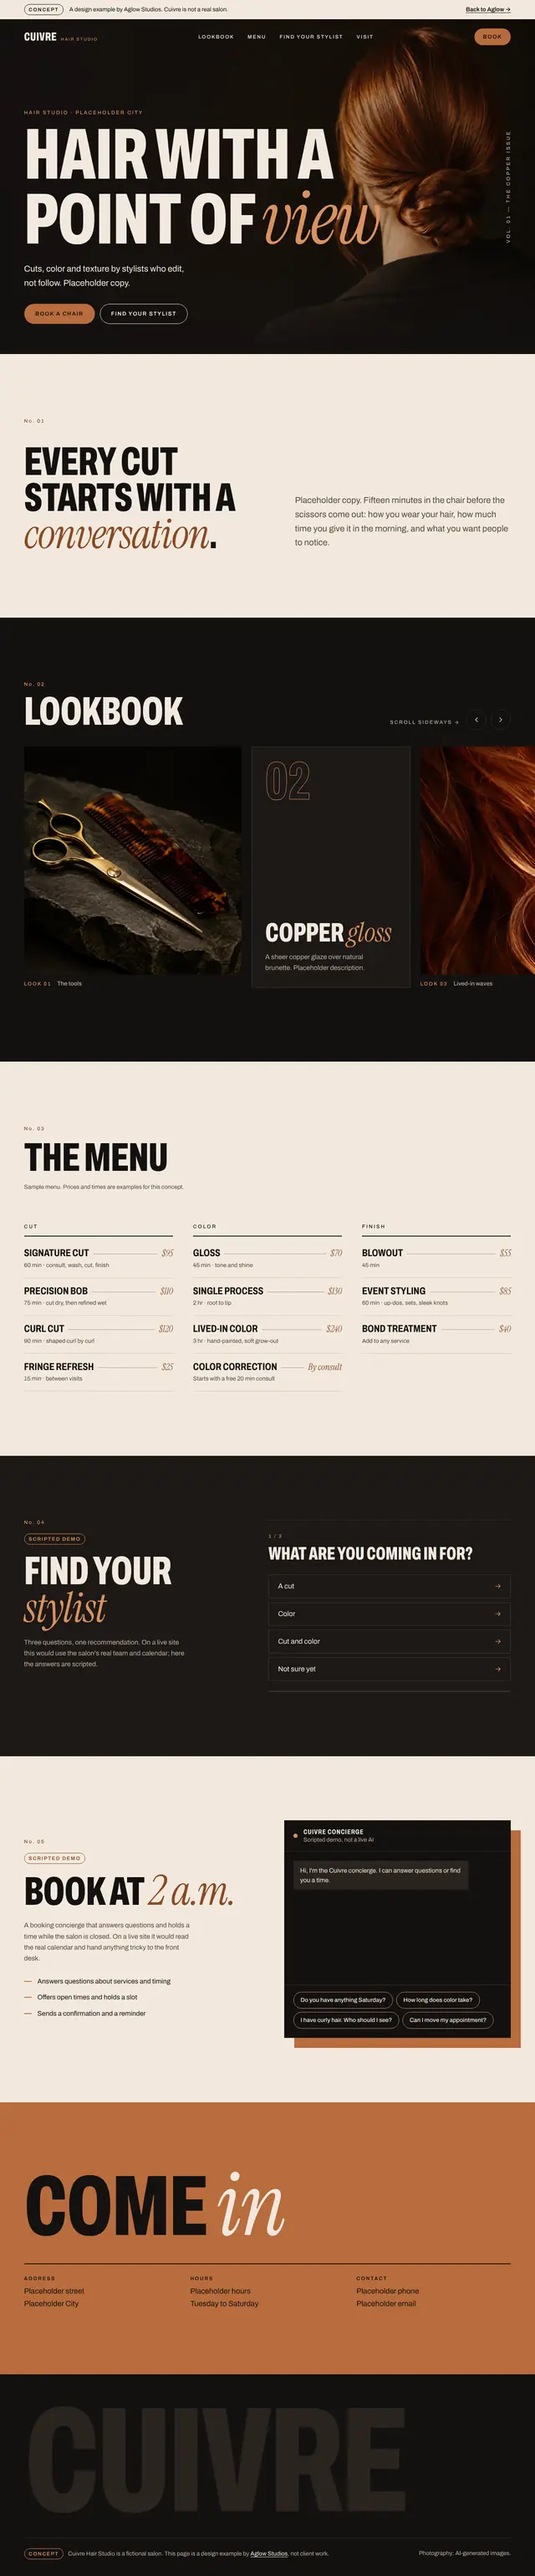
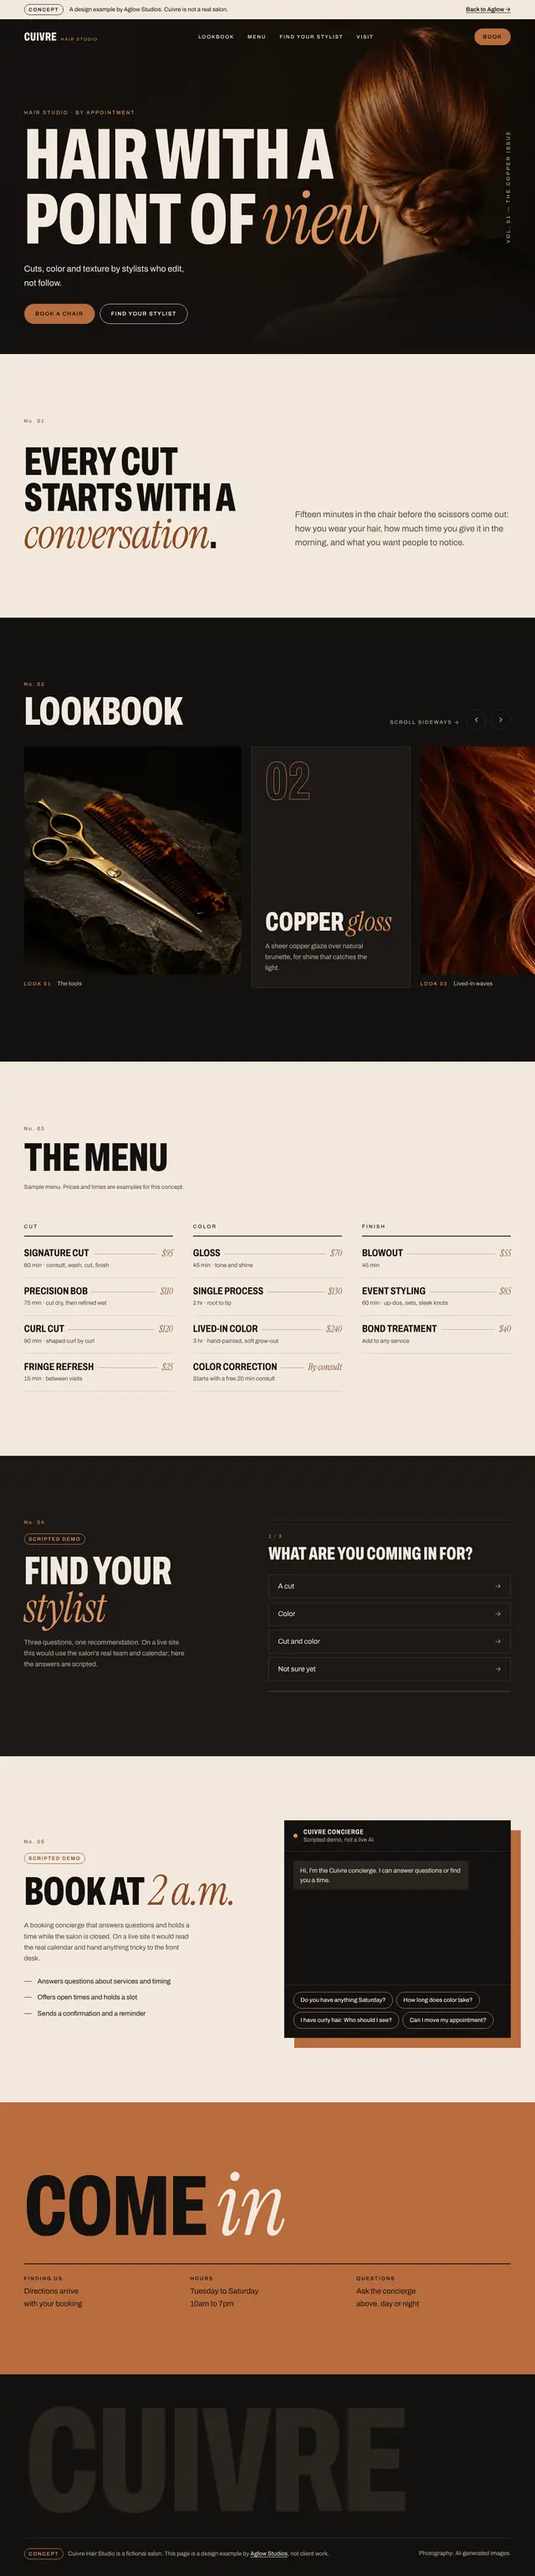
Replace home hero render with real website screens; move chips to the demo
The hero now shows a browser and a phone displaying two concept sites,
labeled as concept designs and linked to that section. The floating chat
chips move beside the Smart site setup demo, clear of the chat's text.
Also removes leftover placeholder text from the salon concept.

Claude-Session: https://claude.ai/code/session_01T9UCFzSj2PYM6zzuZZHtkD

diff --git a/index.html b/index.html
@@ -70,10 +70,6 @@
 
 <main id="main">
   <section class="section band-blush hero">
-    <picture class="hero__media">
-      <source media="(max-width: 899px)" srcset="assets/images/hero-dawn-mobile.webp" width="903" height="1129">
-      <img src="assets/images/hero-dawn-2000.webp" srcset="assets/images/hero-dawn-1200.webp 1200w, assets/images/hero-dawn-2000.webp 2000w" sizes="100vw" width="2000" height="1129" alt="" fetchpriority="high">
-    </picture>
     <div class="wrap hero__grid">
       <div class="hero__copy">
         <p class="eyebrow reveal"><svg class="star" aria-hidden="true"><use href="#i-star"/></svg>Websites for people-first businesses</p>
@@ -84,22 +80,15 @@
           <a class="btn btn--secondary" href="who.html">Is this for me?</a>
         </div>
       </div>
-      <div class="layers reveal" style="--i:2" role="img" aria-label="Examples of what a site can handle for you: answering a question, taking a booking and sending a reminder">
-        <span class="sparkle layers__star" style="--sz:22px; top:2%; right:6%"></span>
-        <span class="sparkle layers__star" style="--sz:11px; top:10%; right:0"></span>
-        <span class="sparkle layers__star" style="--sz:9px; top:34%; left:2%"></span>
-        <div class="chip chip--card chip--night chip--a">
-          <svg class="icon" aria-hidden="true"><use href="#i-message"/></svg>
-          <span><b>Question answered</b><span class="sub">Yes, Saturday has openings.</span></span>
+      <div class="devices reveal" style="--i:2">
+        <div class="devices__browser browser">
+          <div class="browser__bar" aria-hidden="true"><i></i><i></i><i></i><span class="browser__url">Olea Spa &amp; Skin Retreat</span></div>
+          <div class="browser__view"><img src="assets/images/hero-screen-browser.webp" width="1120" height="700" alt="A website in a browser window: the Olea Spa and Skin Retreat concept, with a phone beside it showing the Cuivre Hair Studio concept. Both are Aglow concept designs." fetchpriority="high"></div>
         </div>
-        <div class="chip chip--b" style="animation-delay:-2s">
-          <svg class="icon" aria-hidden="true"><use href="#i-calendar"/></svg>
-          <span><b>Booked</b> · Sat 10:30</span>
-        </div>
-        <div class="chip chip--c" style="animation-delay:-4s">
-          <svg class="icon" aria-hidden="true"><use href="#i-bell"/></svg>
-          <span>Reminder sent</span>
-        </div>
+        <div class="devices__phone" aria-hidden="true"><img src="assets/images/hero-screen-phone.webp" width="400" height="843" alt=""></div>
+        <span class="sparkle devices__star" style="--sz:18px; top:-4%; left:22%"></span>
+        <span class="sparkle devices__star" style="--sz:9px; top:6%; left:16%"></span>
+        <a class="devices__caption" href="#concepts-title"><svg class="star" aria-hidden="true"><use href="#i-star"/></svg>Concept designs by Aglow. See them below</a>
       </div>
     </div>
   </section>
@@ -178,10 +167,26 @@
           <li><span class="num">03</span><div><h3>Smart intake</h3><p>An inquiry form that summarizes each request before the first call.</p></div></li>
           <li><span class="num">04</span><div><h3>Instant estimate</h3><p>A rough range from a few details, for the owner to confirm.</p></div></li>
         </ol>
-        <div class="chat" data-script="salon" aria-live="polite">
-          <div class="chat__head"><div class="starfield" data-starfield="5" aria-hidden="true"></div><span class="who">Salon concierge</span><span class="tag">Scripted demo</span></div>
-          <div class="chat__body"></div>
-          <div class="chat__suggest"></div>
+        <div class="demo__stage">
+          <div class="demo__chips" role="img" aria-label="Examples of what a site can handle for you: answering a question, taking a booking and sending a reminder">
+            <div class="chip chip--card chip--night demo-chip demo-chip--a">
+              <svg class="icon" aria-hidden="true"><use href="#i-message"/></svg>
+              <span><b>Question answered</b><span class="sub">Yes, Saturday has openings.</span></span>
+            </div>
+            <div class="chip demo-chip demo-chip--b" style="animation-delay:-2s">
+              <svg class="icon" aria-hidden="true"><use href="#i-calendar"/></svg>
+              <span><b>Booked</b> · Sat 10:30</span>
+            </div>
+            <div class="chip demo-chip demo-chip--c" style="animation-delay:-4s">
+              <svg class="icon" aria-hidden="true"><use href="#i-bell"/></svg>
+              <span>Reminder sent</span>
+            </div>
+          </div>
+          <div class="chat" data-script="salon" aria-live="polite">
+            <div class="chat__head"><div class="starfield" data-starfield="5" aria-hidden="true"></div><span class="who">Salon concierge</span><span class="tag">Scripted demo</span></div>
+            <div class="chat__body"></div>
+            <div class="chat__suggest"></div>
+          </div>
         </div>
       </div>
     </div>

diff --git a/styles.css b/styles.css
@@ -641,3 +641,56 @@ a.card, .card--link { display: block; text-decoration: none; color: inherit; }
 /* Skip link: hidden until focused with the keyboard */
 .skip-link { position: absolute; left: var(--s-4); top: -60px; z-index: calc(var(--z-chat) + 2); padding: var(--s-3) var(--s-4); background: var(--ink); color: var(--ivory); border-radius: var(--r-pill); }
 .skip-link:focus { top: var(--s-4); }
+
+/* ---------- Home hero: real website screens, layered (replaces the rendered scene) ---------- */
+/* A browser window and a phone show two concept sites. Labeled as concepts by the caption. */
+.devices { position: relative; width: min(100%, 600px); margin-inline: auto; aspect-ratio: 600 / 500; }
+.devices::before { /* the one gold glow */
+  content: ""; position: absolute; inset: -12% -10% -6% 4%; border-radius: 50%; z-index: 0; pointer-events: none;
+  background: radial-gradient(closest-side, color-mix(in srgb, var(--glow) 55%, transparent), transparent);
+}
+.devices__browser {
+  position: absolute; top: 4%; right: 0; width: 90%; z-index: 1;
+  box-shadow: var(--shadow-float); translate: var(--px) var(--py);
+  animation: drift 9s var(--ease) infinite alternate;
+}
+.devices__browser .browser__view img { object-position: 50% 0; transition: none; }
+.devices__phone {
+  position: absolute; left: 0; bottom: 6%; width: 27%; z-index: 2; aspect-ratio: 400 / 843;
+  border: 6px solid var(--night); border-radius: 26px; background: var(--night); overflow: hidden;
+  box-shadow: var(--shadow-float); translate: calc(var(--px) * 1.6) calc(var(--py) * 1.6);
+  animation: drift 7s var(--ease) -3s infinite alternate;
+}
+.devices__phone img { width: 100%; height: 100%; object-fit: cover; object-position: 50% 0; }
+.devices__star { position: absolute; z-index: 3; animation: twinkle-soft 4.6s ease-in-out infinite; }
+.devices__star + .devices__star { animation-delay: -2s; }
+.devices__caption {
+  position: absolute; right: 4%; bottom: 0; z-index: 3;
+  display: inline-flex; align-items: center; gap: var(--s-2); padding: var(--s-2) var(--s-4);
+  background: var(--ivory); color: var(--ink); border: 1px solid var(--line); border-radius: var(--r-pill);
+  font-size: .8125rem; text-decoration: none; box-shadow: var(--shadow-raised);
+  transition: border-color var(--t-micro) var(--ease), transform var(--t-micro) var(--ease);
+}
+.devices__caption:hover { border-color: var(--gold); transform: translateY(-2px); }
+@media (min-width: 900px) {
+  .hero__grid:has(.devices) { align-items: center; grid-template-columns: 1.15fr .85fr; }
+  .devices { width: 108%; max-width: 700px; justify-self: end; margin-right: -4%; }
+}
+@media (min-width: 1400px) { .devices { width: 128%; margin-right: -18%; } }
+@media (max-width: 899px) {
+  .hero { padding-bottom: var(--s-8); }
+  .hero__grid { gap: var(--s-6); }
+  .devices { width: 100%; }
+}
+
+/* ---------- Smart site setup: the floating chips sit around the demo chat ---------- */
+.demo__stage { position: relative; }
+.demo__chips { display: flex; flex-wrap: wrap; gap: var(--s-2); margin-bottom: var(--s-4); }
+.demo-chip { position: static; animation: none; translate: none; box-shadow: var(--shadow-raised); }
+@media (min-width: 1100px) {
+  .demo__chips { position: absolute; inset: 0; margin: 0; z-index: var(--z-float); pointer-events: none; }
+  .demo-chip { position: absolute; animation: drift 7s var(--ease) infinite alternate; box-shadow: var(--shadow-float); }
+  .demo-chip--a { top: -84px; left: -24px; }
+  .demo-chip--b { top: -54px; right: -12px; }
+  .demo-chip--c { bottom: -64px; right: 24px; }
+}

diff --git a/concepts/salon/index.html b/concepts/salon/index.html
@@ -38,9 +38,9 @@
         <img src="../../assets/images/concepts/salon-hero-2000.webp" srcset="../../assets/images/concepts/salon-hero-1200.webp 1200w, ../../assets/images/concepts/salon-hero-2000.webp 2000w" sizes="100vw" width="2000" height="1333" alt="Back view of a woman with copper hair in a low twisted knot, wearing a dark jacket, against a warm black backdrop." fetchpriority="high">
       </figure>
       <div class="hero__copy">
-        <p class="kicker">Hair studio &middot; Placeholder City</p>
+        <p class="kicker">Hair studio &middot; By appointment</p>
         <h1 id="hero-title" class="mega">Hair with a<br>point of <em>view</em></h1>
-        <p class="hero__lead">Cuts, color and texture by stylists who edit, not follow. Placeholder copy.</p>
+        <p class="hero__lead">Cuts, color and texture by stylists who edit, not follow.</p>
         <div class="hero__actions">
           <a class="btn btn--copper" href="#book">Book a chair</a>
           <a class="btn btn--line" href="#match">Find your stylist</a>
@@ -53,7 +53,7 @@
     <section class="statement" aria-labelledby="st-title">
       <p class="index" aria-hidden="true">01</p>
       <h2 id="st-title" class="tall">Every cut starts with a <em>conversation</em>.</h2>
-      <p class="statement__body">Placeholder copy. Fifteen minutes in the chair before the scissors come out: how you wear your hair, how much time you give it in the morning, and what you want people to notice.</p>
+      <p class="statement__body">Fifteen minutes in the chair before the scissors come out: how you wear your hair, how much time you give it in the morning, and what you want people to notice.</p>
     </section>
 
     <!-- Lookbook: sideways scroll -->
@@ -77,7 +77,7 @@
         <article class="look look--text">
           <p class="look__no">02</p>
           <h3>Copper <em>gloss</em></h3>
-          <p>A sheer copper glaze over natural brunette. Placeholder description.</p>
+          <p>A sheer copper glaze over natural brunette, for shine that catches the light.</p>
         </article>
         <figure class="look look--wide">
           <div class="frame" data-ph="Placeholder image: hair texture close-up">
@@ -88,7 +88,7 @@
         <article class="look look--text look--copper">
           <p class="look__no">04</p>
           <h3>The blunt <em>bob</em></h3>
-          <p>One length, cut dry, sharp at the jaw. Placeholder description.</p>
+          <p>One length, cut dry, sharp at the jaw. Grows out without losing its line.</p>
         </article>
         <figure class="look look--tall">
           <div class="frame frame--crop" data-ph="Placeholder image: hero portrait, alternate crop">
@@ -226,9 +226,9 @@
     <section class="visit" id="visit" aria-labelledby="visit-title">
       <h2 id="visit-title" class="mega mega--sm">Come <em>in</em></h2>
       <dl class="visit__grid">
-        <div><dt>Address</dt><dd>Placeholder street<br>Placeholder City</dd></div>
-        <div><dt>Hours</dt><dd>Placeholder hours<br>Tuesday to Saturday</dd></div>
-        <div><dt>Contact</dt><dd>Placeholder phone<br>Placeholder email</dd></div>
+        <div><dt>Finding us</dt><dd>Directions arrive<br>with your booking</dd></div>
+        <div><dt>Hours</dt><dd>Tuesday to Saturday<br>10am to 7pm</dd></div>
+        <div><dt>Questions</dt><dd>Ask the concierge<br>above, day or night</dd></div>
       </dl>
     </section>
   </main>

diff --git a/script.js b/script.js
@@ -46,7 +46,7 @@
   }
 
   // Layered composition: layers shift slightly with the pointer (desktop only)
-  const layers = $('.layers');
+  const layers = $('.devices, .layers');
   if (layers && !reduced && matchMedia('(hover: hover) and (min-width: 900px)').matches) {
     const zone = layers.closest('section') || layers;
     zone.addEventListener('pointermove', e => {

diff --git a/DESIGN.md b/DESIGN.md
@@ -155,21 +155,19 @@ All motion is disabled under `prefers-reduced-motion: reduce`.
   Error: border `--error` plus a text message (never color alone).
 - **Bands:** sections alternate surfaces: ivory, cream, blush (`.band-blush`)
   and night (`.band-night`). One night band besides the footer, at most.
-- **Hero (`.hero`):** full viewport height. Background is the rendered dawn scene
-  (`assets/images/hero-dawn-1200.webp` / `-2000.webp`, a Canva AI render owned by
-  Aglow Studios): blush plaster wall with a shaft of light, an arch onto a sunset
-  sea, a pearl on the sill, steps into still reflective water. A plaster-coloured
-  veil fades in from the left so the copy stays above 4.5:1 (measured 5.9:1 or
-  better at 1280, 1440 and 1920 wide). Film grain over everything. On desktop
-  the image shifts slightly with the cursor.
-- **Hero on phones:** the copy sits on the plaster gradient, then a 4:5 crop of
-  the arch (`hero-dawn-mobile.webp`) fades in below it. Chips sit over the crop.
-- **Floating chips (`.layers`):** two or three chips (`.chip--a/b/c`) and three
-  twinkling stars over the arch. Never cover the pearl.
-- **Replacing the hero image:** keep the composition (empty light wall on the
-  left for copy, one arch right of centre, one pearl, water across the bottom),
-  export at 2720px or wider, then regenerate the three WebP files and re-run the
-  contrast check.
+- **Home hero (`.hero` + `.devices`), Nov 2026:** owner rejected the rendered dawn
+  scene because it "doesn't say websites". The hero now shows real website
+  screens, layered: a browser window (`.devices__browser`, Olea concept) and an
+  overlapping phone (`.devices__phone`, Cuivre concept) on the blush plaster
+  gradient with film grain and one gold glow behind them. A caption pill links to
+  the Concept designs section and labels the screens as concepts. Images:
+  `assets/images/hero-screen-browser.webp` and `hero-screen-phone.webp`, real
+  screenshots of the concept pages (never AI pictures of layouts). Re-capture
+  them when a concept's top section changes. On phones the screens sit below the
+  copy. The dawn render files remain for the style guide only.
+- **Floating chips:** no longer in the hero. They sit around the demo chat in the
+  Smart site setup section (`.demo__chips`): above and below the chat on wide
+  screens, never covering its text; a plain row above the chat below 1100px.
 - **Statement (`.statement`):** oversized heading top-left, body text and a quiet
   link offset lower-right. One per page.
 - **Card:** `--ivory` or `--cream` fill, 1px `--line` border, `--r-card`.

diff --git a/CLAUDE.md b/CLAUDE.md
@@ -63,7 +63,9 @@ On the Aglow home page: four cards, each a browser frame that scrolls the
 concept slowly on hover; click opens the live concept page.
 
 ## Status
-- Done: design system, logo (glint cluster), hero render, stars, preview page.
+- Done: design system, logo (glint cluster), stars, preview page. The home hero
+  now uses real concept-site screens (see DESIGN.md); the dawn render was retired
+  from the home page by the owner.
 - Site pages built (Nov 2026) from the live site's copy, same URLs as live:
   `index.html`, `services.html`, `who.html`, `packages.html`, `contact.html`.
   Shared header, mobile menu, footer, sticky phone booking bar and "Ask Aglow"
